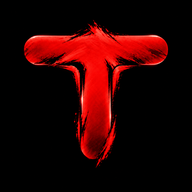
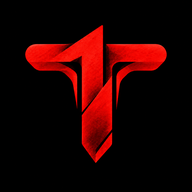
style: 앱 로고를 각진/스플릿 스타일의 새 T 디자인으로 교체 (#720)
이전 붓터치 느낌 T 로고에서, 숫자 1과 겹친 듯한 각진 스플릿 스타일의
새 T 로고로 교체. 아이콘 3종(icon-192/icon-512/apple-touch-icon) +
iOS 자체 스플래시 10종 전부 동일한 비율(26%)·중앙 배치로 재생성.
sw.js 캐시 버전도 올림.

Claude-Session: https://claude.ai/code/session_01TNoGCWRQtXcfdnQwZ6HvCX

Changed region(s): [[0.125, 0.0938, 0.875, 0.875]]

diff --git a/sw.js b/sw.js
@@ -1,4 +1,4 @@
-const CACHE = "mf-v26"; // 🔥 로고 소스를 라운드 타일 바깥 여백 없는 풀블리드 버전으로 교체(아이콘은 OS가 알아서 둥글려주므로 이중 둥근 테두리 방지) — 아이콘/스플래시 전부 재생성해서 캐시 이름을 다시 올려 새로 받아오게 함
+const CACHE = "mf-v27"; // 🔥 로고 디자인을 각진/스플릿 스타일의 새 T 로고로 교체 — 아이콘/스플래시 전부 재생성해서 캐시 이름을 다시 올려 새로 받아오게 함
 const ASSETS = [
   "/",
   "/index.html",

diff --git a/index.html b/index.html
@@ -11303,7 +11303,7 @@ const settingsHeaderName = document.getElementById("settingsHeaderName");
 const settingsHeaderSub = document.getElementById("settingsHeaderSub");
 
 /* ✅ 앱 버전 정의 — 의미 있는 수정/배포마다 올림(설정 화면에서 "최신 버전 받았는지" 확인용) */
-const APP_VERSION = "0.9.256";
+const APP_VERSION = "0.9.257";
 const appVersionDisplay = document.getElementById("appVersionDisplay");
 if (appVersionDisplay) {
   appVersionDisplay.textContent = APP_VERSION;
